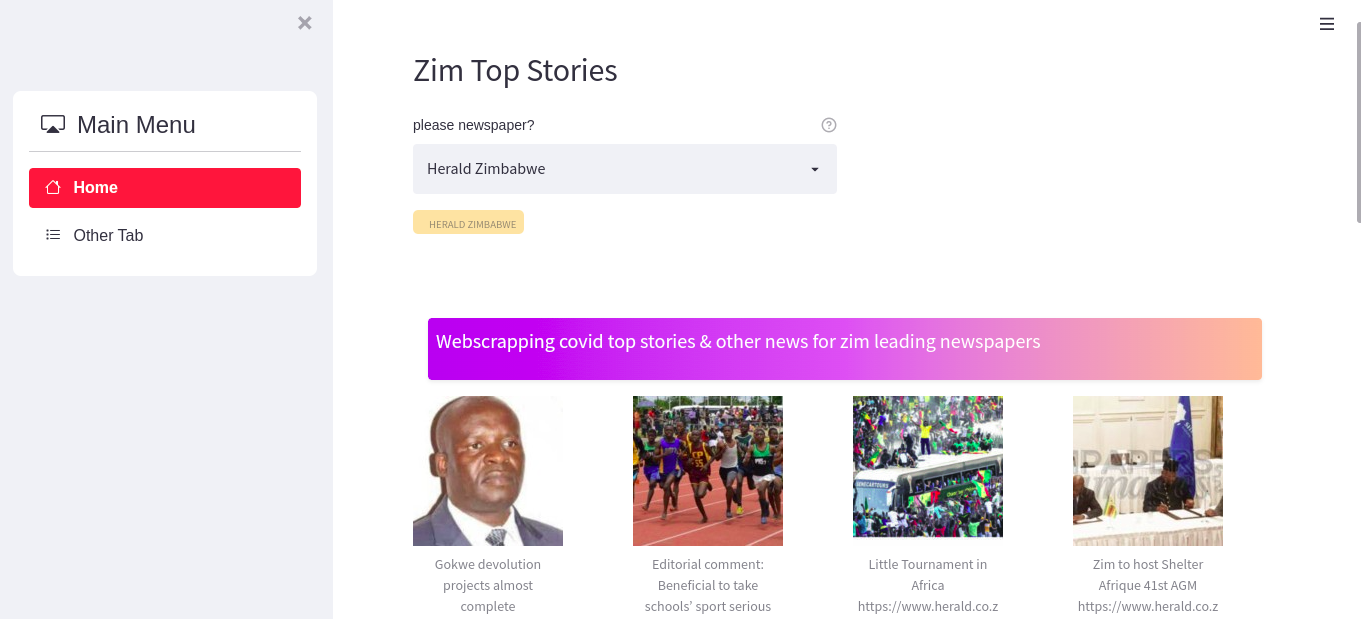
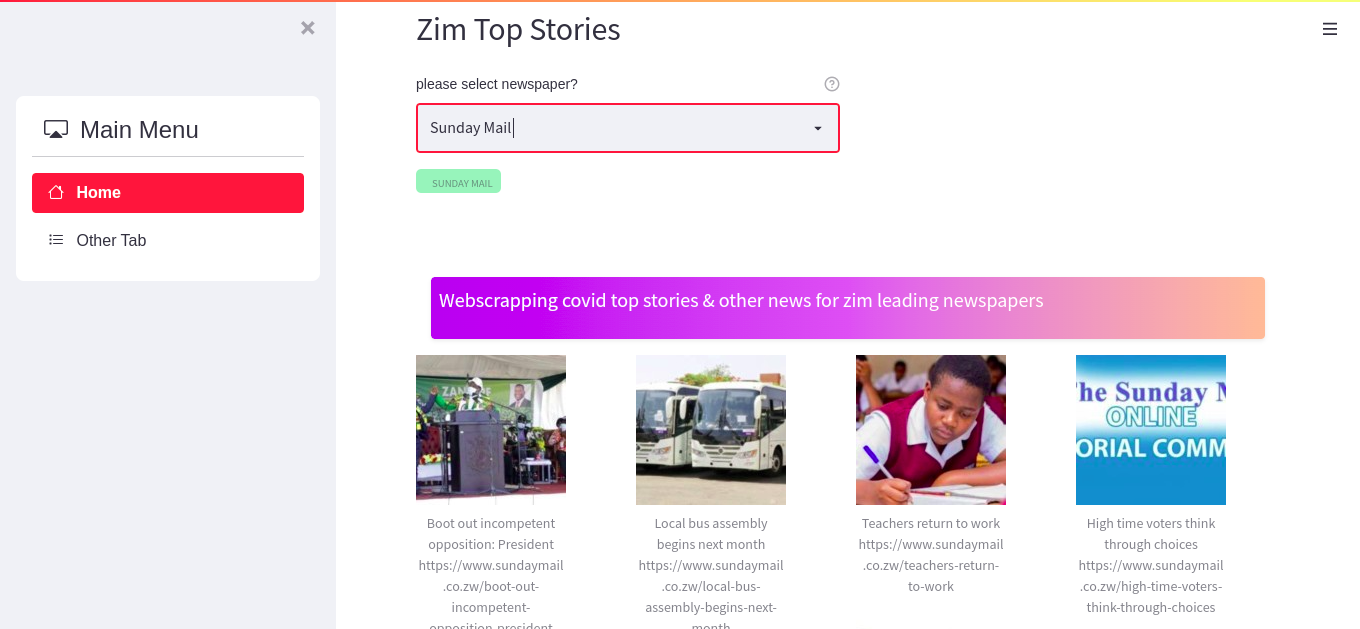
Handling connection error exception

diff --git a/main.py b/main.py
@@ -11,7 +11,8 @@ from streamlit_option_menu import option_menu
 def config():
     file_path = "./components/img/"
     img = Image.open(os.path.join(file_path, 'logo.ico'))
-    st.set_page_config(page_title='ZIM NEWS WEB SCRAPPER', page_icon=img, layout="wide", initial_sidebar_state="expanded")
+    st.set_page_config(page_title='ZIM NEWS WEB SCRAPPER', page_icon=img, layout="wide",
+                       initial_sidebar_state="expanded")
 
     # code to check turn of setting and footer
     st.markdown(""" <style>
@@ -57,36 +58,39 @@ def remote_css(url):
 def remote_js(url):
     st.markdown(f'<script src={url} ></script', unsafe_allow_html=True)
 
+
 def icon(icon_name):
     st.markdown(f'<i class="material-icons">{icon_name}</i>', unsafe_allow_html=True)
 
 
 def zim_news_top_stories(url):
-    page = requests.get(url)
-    soup = BeautifulSoup(page.content, 'html.parser')
-    articles = soup.find_all(class_="hentry sirius-card")
     aggregates = []
+    try:
+        page = requests.get(url)
+        soup = BeautifulSoup(page.content, 'html.parser')
+        articles = soup.find_all(class_="hentry sirius-card")
 
-    for article in articles:
-        links = [i['href'] for i in article.select('a')]
-        titles = [i.get('alt') for i in article.select('link')]
-        image = [i['data-src'] for i in article.select('img')]
-        content = [i.text for i in article.select('p')]
-        aggregates.append([links[0], titles[0], image[0], content[0]])
+
+        for article in articles:
+            links = [i['href'] for i in article.select('a')]
+            titles = [i.get('alt') for i in article.select('link')]
+            image = [i['data-src'] for i in article.select('img')]
+            content = [i.text for i in article.select('p')]
+            aggregates.append([links[0], titles[0], image[0], content[0]])
+    except ConnectionError:
+        st.error("There is a connection error please retry later 😥")
     return aggregates
 
 
 def home():
     st.header("Zim Top Stories")
     newspapers = ["Herald Zimbabwe", "Sunday Mail", "Hmetro", "Chronicle", "Suburban", "Manica Post"]
-    col1,col2=st.columns(2)
+    col1, col2 = st.columns(2)
     with col1:
-        option = st.selectbox('please newspaper?', (newspapers), help="Please select newspaper")
+        option = st.selectbox('please select newspaper?', (newspapers), help="Please select newspaper")
         annotated_text(
             ("", option)
         )
-
-
 
     remote_css("https://stackpath.bootstrapcdn.com/font-awesome/4.7.0/css/font-awesome.min.css")
     remote_css("https://cdnjs.cloudflare.com/ajax/libs/twitter-bootstrap/4.3.1/css/bootstrap.min.css")
@@ -109,6 +113,7 @@ def home():
 
     elif option == "Manica Post":
         fetch_articles('https://www.manicapost.co.zw/category/top-stories/')
+
 
 def fetch_articles(url):
     try:
@@ -139,8 +144,9 @@ def fetch_articles(url):
 
             except:
                 next(cols).image("./components/img/logo.ico", width=150, caption=top_story[1] + "\n\n" + top_story[0])
-    except ConnectionError as e:
+    except:
         st.error("There is a connection error please retry later 😥")
+
 
 def other_tab():
     st.header("Other TAB")
@@ -153,6 +159,7 @@ def main():
                              default_index=0)
 
     home() if (choice == "Home") else other_tab()
+
 
 if __name__ == '__main__':
     main()
